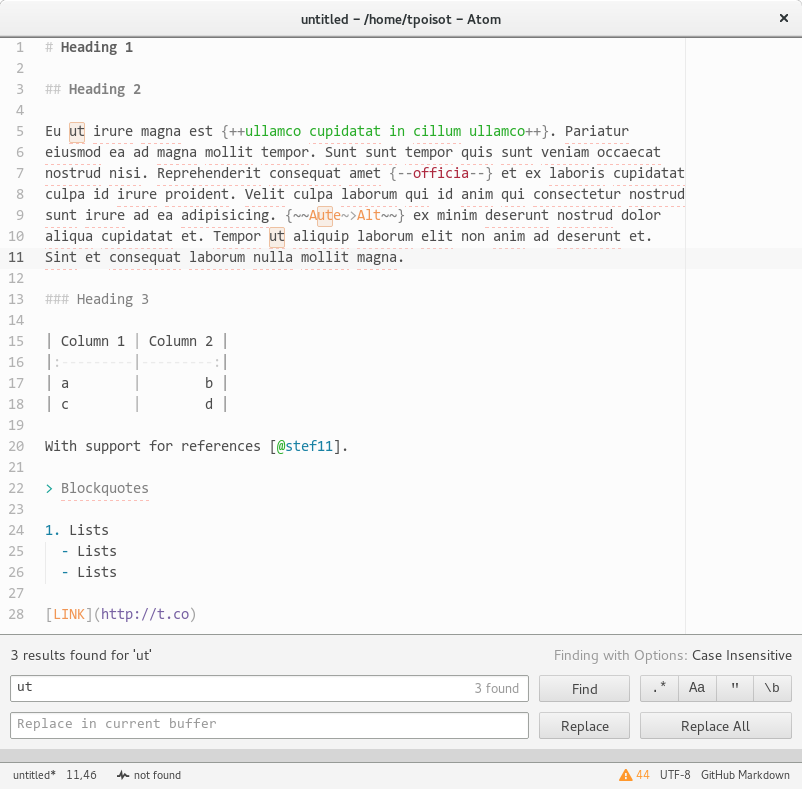
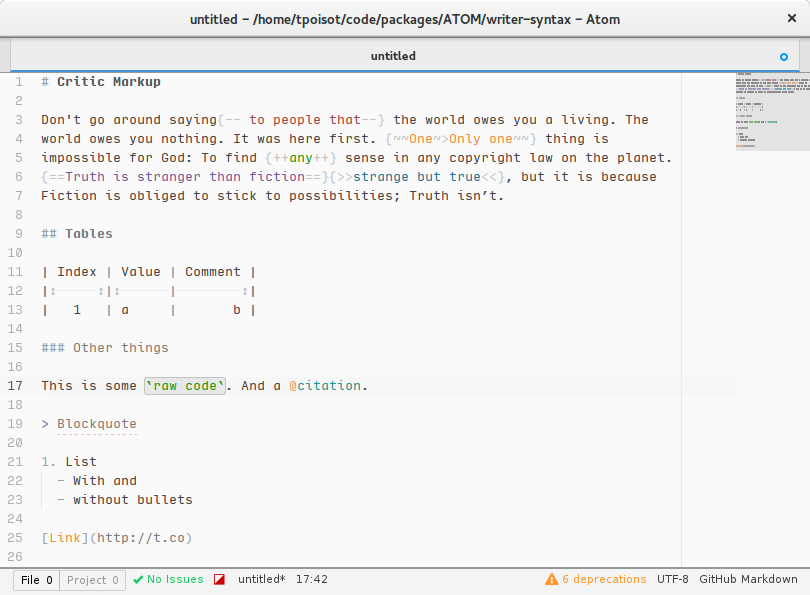
New image

Changed region(s): [[0.0, 0.0, 1.0, 0.9983]]

diff --git a/styles/gfm.less b/styles/gfm.less
@@ -1,7 +1,7 @@
 .source.gfm .markup {
   -webkit-font-smoothing: auto;
   &.heading {
-    color: @gray;
+    color: @light-gray;
     &.space, &.marker {
       text-decoration: none !important;
       display: inline-block;
@@ -9,25 +9,27 @@
     }
   }
   &.heading-1 {
-    color: @writer-fg;
+    color: @very-dark-gray;
     font-weight: bold;
   }
   &.heading-2 {
-    color: @very-dark-gray;
+    color: @dark-gray;
     font-weight: bold;
   }
   &.heading-3 {
     color: @dark-gray;
-    font-weight: bold;
   }
   &.heading-4 {
-    font-weight: bold;
+    font-weight: @gray;
+  }
+  &.heading-5 {
+    font-style: italic;
   }
   &.heading-6 {
     font-style: italic;
   }
   &.marker {
-    color: @light-blue !important;
+    color: @gray !important;
     font-weight: normal !important;
   }
 }
@@ -107,19 +109,19 @@
 // Syntax for critic markup
 .source.gfm > .critic.gfm {
   &.addition {
-    color: @light-green;
+    color: @green;
   }
   &.deletion {
-    color: @light-red;
+    color: @red;
   }
   &.substitution {
-    color: @light-orange;
+    color: @orange;
   }
   &.comment {
-    color: @light-blue;
+    color: @blue;
   }
   &.highlight {
-    color: @light-purple;
+    color: @purple;
   }
   .marker {
     color: @light-gray !important;

diff --git a/CHANGELOG.md b/CHANGELOG.md
@@ -4,6 +4,7 @@
   * `z-index` property fixed
 - `.gfm`
   * Mentions and support fixed
+  * Headers colors less obstrusive
 
 ## 0.7.2
 
